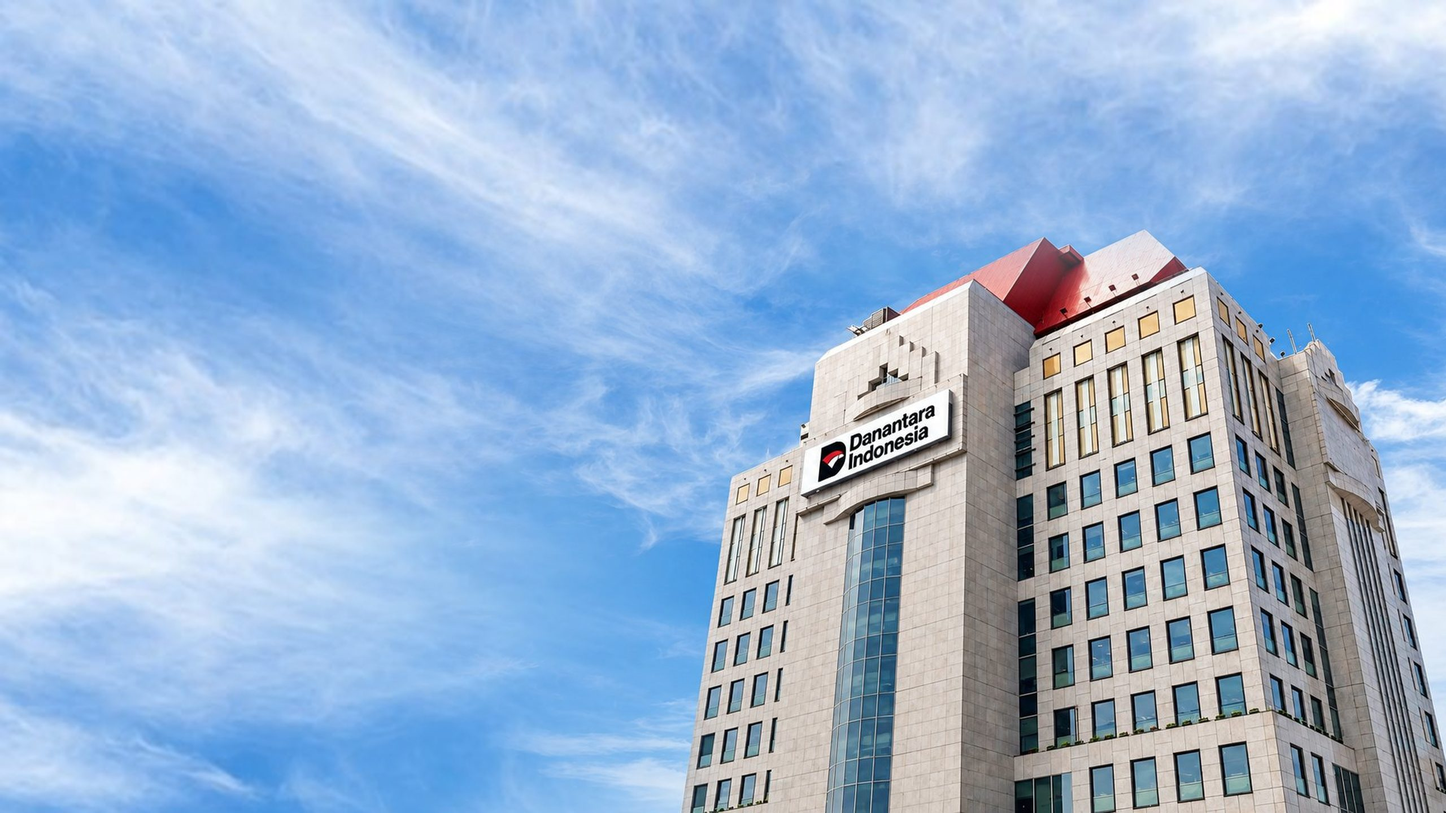
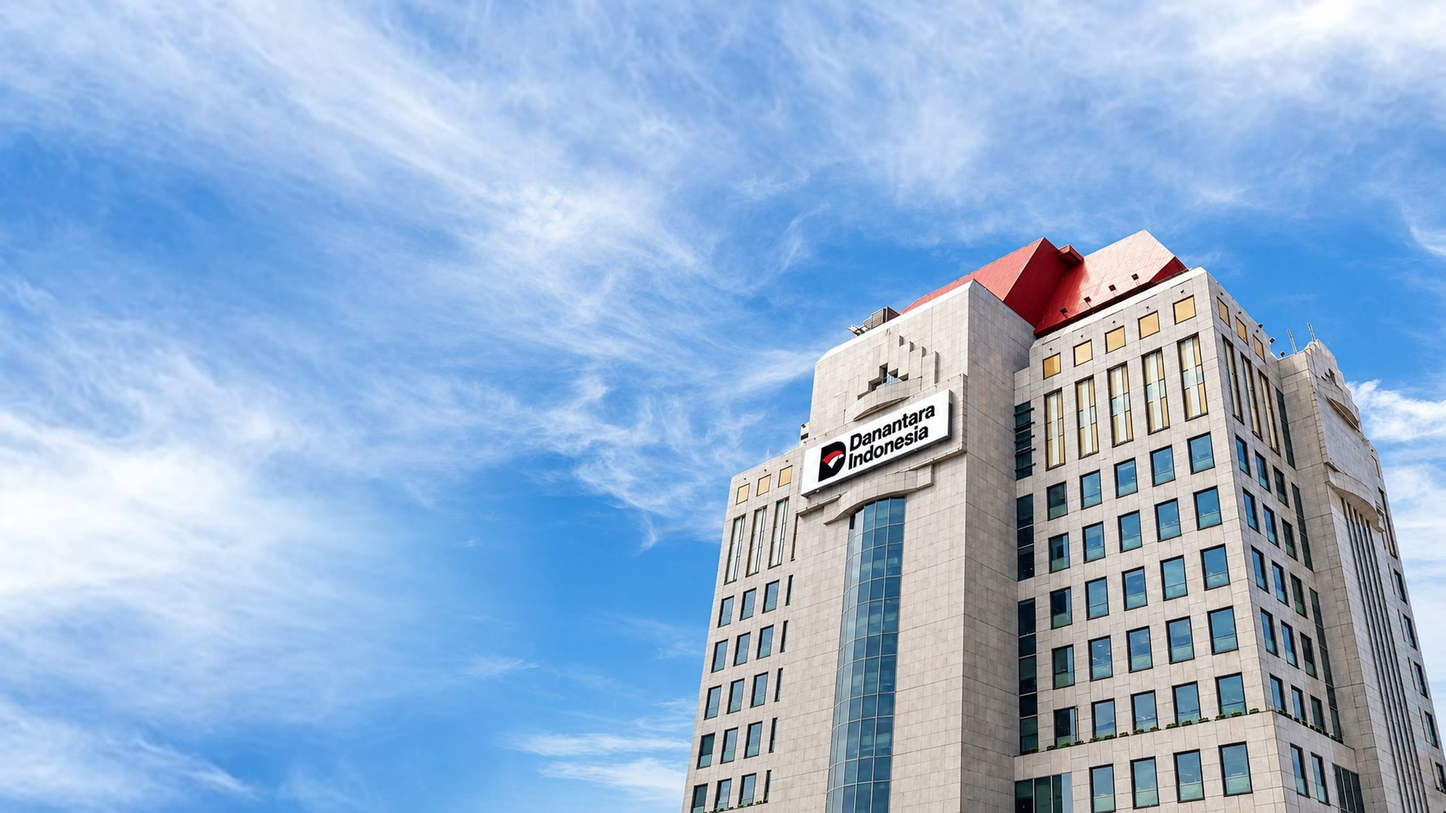
v0.20

diff --git a/donyoskaria/index.html b/donyoskaria/index.html
@@ -43,8 +43,8 @@
 <link rel="stylesheet" href="loader.css?v=98">
 <style>#loading .spinner{display:none}</style>
 <style>.top-r{display:flex;align-items:center;gap:10px}.th-btn{width:42px;height:42px;display:grid;place-items:center;border-radius:12px;border:1px solid var(--line);background:var(--card);color:var(--ink);cursor:pointer}.th-btn:hover{border-color:#46D6C8;color:#46D6C8}[data-theme=dark] .th-btn .i-moon,[data-theme=light] .th-btn .i-sun{display:none}</style>
-<style>#heroBg{position:fixed;inset:0;z-index:0;pointer-events:none;display:none}
-#heroBg img{position:absolute;inset:0;width:100%;height:100%;object-fit:cover;object-position:right bottom;display:block}
+<style>#heroBg{position:fixed;top:0;left:0;right:0;height:100vh;z-index:0;pointer-events:none;display:none}
+#heroBg img{position:absolute;inset:0;width:100%;height:100%;object-fit:cover;object-position:right 38%;display:block}
 #heroBg .hb-l{display:none}[data-theme=light] #heroBg .hb-l{display:block}[data-theme=light] #heroBg .hb-d{display:none}
 #heroBg:after{content:"";position:absolute;inset:0;background:linear-gradient(90deg,rgba(2,6,14,.8) 0%,rgba(2,6,14,.5) 26%,rgba(2,6,14,.1) 46%,transparent 60%)}
 [data-theme=light] #heroBg:after{background:linear-gradient(90deg,rgba(244,248,249,.85) 0%,rgba(244,248,249,.5) 26%,rgba(244,248,249,.08) 46%,transparent 60%)}
@@ -66,13 +66,13 @@
 <script src="loader.js?v=98"></script>
 <script>(function(){var done=false,fin=function(){if(done)return;done=true;try{GarudaLoader.complete()}catch(e){}};addEventListener("lok:update",fin,{once:true});setTimeout(function(){var l=document.getElementById("loading");if(l&&/Gagal/.test(l.textContent))fin()},4000);setTimeout(fin,20000);})();</script>
 
-<div id="heroBg" aria-hidden="true"><img class="hb-d" src="hero-dark.jpg?v=3" srcset="hero-dark-sm.jpg?v=3 1280w, hero-dark.jpg?v=3 2560w" sizes="100vw" alt="" fetchpriority="high" decoding="async"><img class="hb-l" src="hero-light.jpg?v=3" srcset="hero-light-sm.jpg?v=3 1280w, hero-light.jpg?v=3 2560w" sizes="100vw" alt="" decoding="async"></div>
+<div id="heroBg" aria-hidden="true"><img class="hb-d" src="hero-dark.jpg?v=4" srcset="hero-dark-sm.jpg?v=4 1280w, hero-dark.jpg?v=4 2560w" sizes="100vw" alt="" fetchpriority="high" decoding="async"><img class="hb-l" src="hero-light.jpg?v=4" srcset="hero-light-sm.jpg?v=4 1280w, hero-light.jpg?v=4 2560w" sizes="100vw" alt="" decoding="async"></div>
 <header class="topbar">
   <div class="brand">
     <img class="logo logo-dark" src="logo-dark.png?v=73" alt="Logo">
     <img class="logo logo-light" src="logo-light.png?v=73" alt="Logo">
     <span class="divider"></span>
-    <span class="brand-t"><b>Garuda Labs</b><small>Intelligent Media Monitoring</small></span><span class="beta" title="Versi 0.18 · diperbarui 30 Okt 2026">Beta<i class="ver">v0.18</i></span>
+    <span class="brand-t"><b>Garuda Labs</b><small>Intelligent Media Monitoring</small></span><span class="beta" title="Versi 0.20 · diperbarui 30 Okt 2026">Beta<i class="ver">v0.20</i></span>
   </div>
   <div class="top-r">
       <div class="dr">
@@ -219,11 +219,11 @@
 </main>
 <script src="app.js?v=100"></script>
 <script src="map.js?v=73"></script>
-<script src="core.js?v=101"></script>
+<script src="core.js?v=102"></script>
 <script src="analitik.js?v=84"></script>
-<script src="console.js?v=98"></script>
+<script src="console.js?v=99"></script>
 <script src="narasi.js?v=102"></script>
-<script src="fx.js?v=100"></script>
+<script src="fx.js?v=102"></script>
 <script src="chat.js?v=73"></script>
 <link rel="stylesheet" href="light.css?v=1">
 </body>

diff --git a/donyoskaria/console.js b/donyoskaria/console.js
@@ -89,7 +89,7 @@
           <ol class="g-pl">${prio.list.map((t, i) => `<li class="${t.np >= 45 ? 'hi' : t.np >= 25 ? 'md' : 'lo'}">
             <div class="h"><span class="n">${i + 1}</span><b>${esc(t.kk)}</b><span class="v">${k(t.v)}</span>${dChip(t.d, true)}</div>
             <div class="m"><span class="g-lv ${t.np >= 45 ? 'hi' : t.np >= 25 ? 'md' : 'lo'}">${pc(t.n, t.v, 0)} negatif</span><span class="sh">${pc(t.v, prio.T, 0)} dari percakapan</span></div>
-            ${t.top ? `<p class="q">"${esc(t.top.text.slice(0, 120))}${t.top.text.length > 120 ? '…' : ''}"<span class="src">— ${esc(t.top.user || t.top.platform)} · ${esc(t.top.platform)}${t.top.link ? ` · <a href="${esc(t.top.link)}" target="_blank" rel="noopener">buka ${ic('ext', 11, 2)}</a>` : ''}</span></p>` : ''}
+            ${t.top ? `<p class="q">"${esc(t.top.text.slice(0, 220))}${t.top.text.length > 220 ? '…' : ''}"<span class="src">— ${esc(t.top.user || t.top.platform)} · ${esc(t.top.platform)}${t.top.link ? ` · <a href="${esc(t.top.link)}" target="_blank" rel="noopener">buka ${ic('ext', 11, 2)}</a>` : ''}</span></p>` : ''}
           </li>`).join('') || '<li class="lo"><p class="q">Belum ada isu menonjol.</p></li>'}</ol>
         </div>
         <div class="g-ctrl">
@@ -127,9 +127,15 @@
     const GEO = window.PETA_GEO, IW = 1672, IH = 1051, mx = Math.max(1, ...prv.map(x => x[1]));
     const PIN = Object.fromEntries((GEO?.prov || []).map(p => [p.n, p.c]));
     const earth = root.querySelector('.g-earth'), stage = root.querySelector('.g-stage');
+    // ---- Executive Brief: KPI sejajar + baris Isu Prioritas & Emosi di bawah banner ----
+    { const kp = root.querySelector('.g-kpis'), pr = root.querySelector('.g-prio'), it = root.querySelector('.g-int');
+      const sum = document.createElement('p'); sum.className = 'g-sum'; sum.innerHTML = `${ic('spark', 14)}<span>${esc(ins[0]?.[2] || '')}</span>`;
+      root.querySelector('.g-kw')?.before(sum);
+      const kr = document.createElement('div'); kr.className = 'g-kpirow'; kp && kr.append(kp);
+      const br = document.createElement('div'); br.className = 'g-brief'; pr && br.append(pr); it && br.append(it);
+      stage.after(kr); kr.after(br); }
     const fit = () => { const hero = root.querySelector('.g-hero'), hh = innerWidth >= 1101 && hero ? hero.offsetHeight + 18 : 0;
-      stage.style.marginTop = hh ? -hh + 'px' : ''; stage.style.setProperty('--heroH', hh + 'px'); const gi = [...root.querySelectorAll('.g-int,.g-prio')].sort((a, b) => b.getBoundingClientRect().bottom - a.getBoundingClientRect().bottom)[0], nx = stage.nextElementSibling; stage.style.minHeight = '';
-      if (hh && gi && nx) { const need = gi.getBoundingClientRect().bottom + 24 - nx.getBoundingClientRect().top; if (need > 0) stage.style.minHeight = (stage.offsetHeight + need) + 'px'; }
+      stage.style.marginTop = hh ? -hh + 'px' : ''; stage.style.setProperty('--heroH', hh + 'px'); stage.style.minHeight = hh ? Math.max(hh + 40, innerHeight * .42) + 'px' : '';
       const W = stage.clientWidth, H = stage.clientHeight, wide = innerWidth >= 1100;
       if (!wide) { earth.style.cssText = ''; return; }
       // ukuran globe dibatasi seperti tata letak awal (lebar konten 1500px), lalu diletakkan di tengah area kanan

diff --git a/donyoskaria/core.js b/donyoskaria/core.js
@@ -191,6 +191,17 @@
 .g-pl .q{margin:8px 0 0;font-size:12px;line-height:1.45;color:var(--ink);opacity:.85}
 .g-pl .q .src{display:block;margin-top:3px;font-size:11px;color:var(--mute)}.g-pl .q a{color:#46D6C8;text-decoration:none}
 @media(max-width:1100px){.g-prio{position:relative;width:auto;left:auto!important;top:auto!important}}
+.g-sum{display:flex;gap:8px;align-items:flex-start;max-width:640px;margin:10px 0 0;padding:10px 14px;border-radius:14px;background:rgba(70,214,200,.08);border:1px solid rgba(70,214,200,.25);font-size:13.5px;line-height:1.5;color:var(--ink)}.g-sum svg{flex:none;margin-top:3px;color:#46D6C8}
+.g-kpirow{position:relative;z-index:3;margin:16px 0 14px}.g-kpirow .g-kpis{display:grid;grid-template-columns:repeat(4,minmax(0,1fr))!important;gap:14px}
+.g-brief{position:relative;z-index:3;display:grid;grid-template-columns:minmax(0,1.6fr) minmax(300px,1fr);gap:14px;margin-bottom:14px;align-items:stretch}
+.g-brief .g-prio,.g-brief .g-int{position:relative!important;left:auto!important;top:auto!important;width:auto!important;transform:none!important;opacity:1!important;visibility:visible!important}
+.g-brief .g-pl{grid-template-columns:1fr;flex:1;align-content:space-between}.g-brief .g-prio{display:flex;flex-direction:column}.g-brief .g-pl li{display:flex;flex-direction:column}.g-brief .g-pl .q{font-size:12.8px;-webkit-line-clamp:6}
+@media(min-width:1101px){#gConsole .g-stage.g-stage{height:auto!important}}
+.g-brief .g-int{display:flex;flex-direction:column}.g-brief .g-int .g-btn{margin-top:auto}
+@media(min-width:1101px){.g-insight{margin-top:0!important}}
+@media(max-width:1280px){.g-kpirow .g-kpis{grid-template-columns:1fr 1fr!important}.g-brief{grid-template-columns:1fr}}
+@media(max-width:900px){.g-brief .g-pl{grid-template-columns:1fr}}
+[data-theme=light] .g-sum{background:rgba(11,127,116,.08);border-color:rgba(11,127,116,.25)}
 .g-photo .ph-l{display:none}[data-theme=light] .g-photo .ph-l{display:block}[data-theme=light] .g-photo .ph-d{display:none}
 .g-stage:after{content:"";position:absolute;inset:0;pointer-events:none;background:linear-gradient(90deg,rgba(1,4,10,.55),transparent 28%),linear-gradient(0deg,rgba(1,4,10,.7),transparent 22%)}
 .g-int,.g-ctrl{z-index:2}

diff --git a/donyoskaria/fx.js b/donyoskaria/fx.js
@@ -71,11 +71,11 @@ html,body{overflow-x:clip}
     const stage = root.querySelector('.g-stage'), earth = root.querySelector('.g-earth'), pins = root.querySelector('.g-pins'); if (!stage || !earth) return;
     const r = stage.getBoundingClientRect(), y = Math.max(0, -r.top + 90), p = Math.min(1, y / (r.height * .55));
     const hb = document.getElementById('heroBg');
-    if (hb) { const b = r.bottom; hb.classList.toggle('on', b > 0); hb.style.clipPath = `inset(0 0 ${Math.max(0, innerHeight - b).toFixed(0)}px 0)`; }
+    if (hb) { const b = r.bottom; hb.classList.toggle('on', b > 0); hb.style.height = Math.round(b + scrollY) + 'px'; hb.style.clipPath = `inset(0 0 ${Math.max(0, scrollY).toFixed(0)}px 0)`; }
     if (!earth.classList.contains('g-photo')) earth.style.transform = `translate3d(0,${(y * .42).toFixed(1)}px,0) scale(${(1 + p * .04).toFixed(3)})`;
     if (pins) { pins.style.opacity = (1 - p * 1.4).toFixed(3); pins.style.filter = p > .02 ? `blur(${(p * 6).toFixed(1)}px)` : ''; pins.style.transform = `translate3d(0,${(-p * 30).toFixed(1)}px,0)`; }
-    const side = root.querySelectorAll('.g-int,.g-ctrl,.g-hero,.g-prio');
-    side.forEach(el => { el.style.opacity = (1 - p * 1.1).toFixed(3); el.style.transform = `translate3d(0,${(-y * .12).toFixed(1)}px,0)`; });
+    const side = root.querySelectorAll('.g-ctrl,.g-hero');
+    side.forEach(el => { const op = 1 - p * 1.1; el.style.visibility = op <= .02 ? 'hidden' : ''; el.style.opacity = op.toFixed(3); el.style.transform = `translate3d(0,${(-y * .12).toFixed(1)}px,0)`; });
   }
   const onScroll = () => { if (!ticking) { ticking = true; requestAnimationFrame(parallax); } };
   addEventListener('scroll', onScroll, { passive: true });
